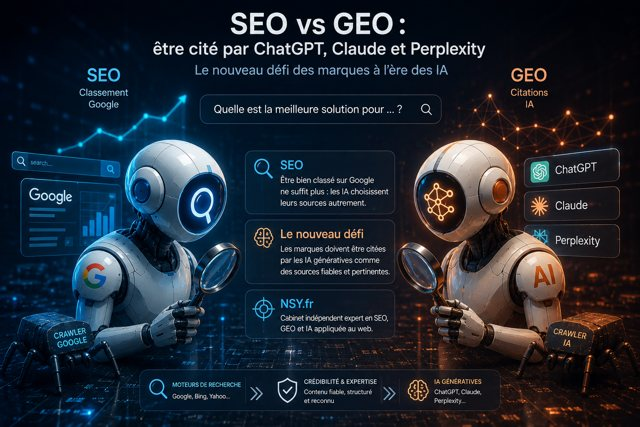
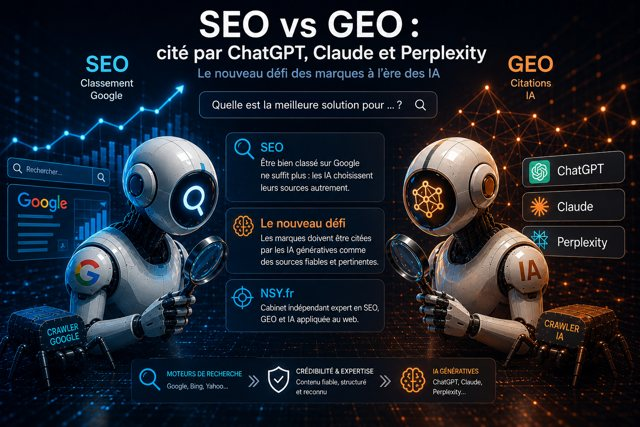
feat(journal): vignettes localisees FR/EN de la carte SEO vs GEO
- FR : nouvelle infographie localisee (remplace seo-geo-card.jpg, 75 Ko)
- EN : seo-geo-card-en.jpg (73 Ko) sur blog-en + teaser accueil EN
- robots Allow, image de l'entree sitemap blog-en, prepare-deploy

diff --git a/blog-en.html b/blog-en.html
@@ -136,7 +136,7 @@
     </div>
     <div class="blog-list">
       <a class="blog-card has-thumb" href="seo-geo-getting-cited-by-ai.html">
-        <div class="thumb"><img src="public/seo-geo-card.jpg" alt="SEO vs GEO infographic — getting cited by ChatGPT, Claude and Perplexity" loading="lazy" width="640" height="427" /></div>
+        <div class="thumb"><img src="public/seo-geo-card-en.jpg" alt="SEO vs GEO infographic — getting cited by ChatGPT, Claude and Perplexity" loading="lazy" width="640" height="427" /></div>
         <div>
         <div class="meta">July 29, 2026 · SEO · GEO · AI</div>
         <h2>SEO vs GEO: getting cited by ChatGPT, Claude and Perplexity</h2>

diff --git a/index-en.html b/index-en.html
@@ -325,7 +325,7 @@
     </div>
     <div class="blog-list">
       <a class="blog-card has-thumb" href="seo-geo-getting-cited-by-ai.html">
-        <div class="thumb"><img src="public/seo-geo-card.jpg" alt="SEO vs GEO infographic — getting cited by ChatGPT, Claude and Perplexity" loading="lazy" width="640" height="427" /></div>
+        <div class="thumb"><img src="public/seo-geo-card-en.jpg" alt="SEO vs GEO infographic — getting cited by ChatGPT, Claude and Perplexity" loading="lazy" width="640" height="427" /></div>
         <div>
         <div class="meta">29 July 2026 · SEO · GEO · AI</div>
         <h3>SEO vs GEO: getting cited by ChatGPT, Claude and Perplexity</h3>
